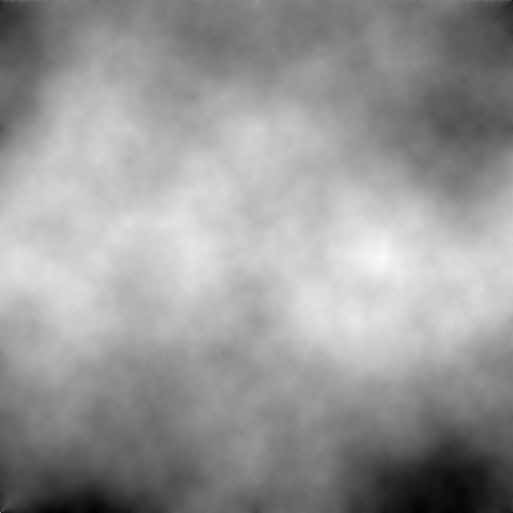
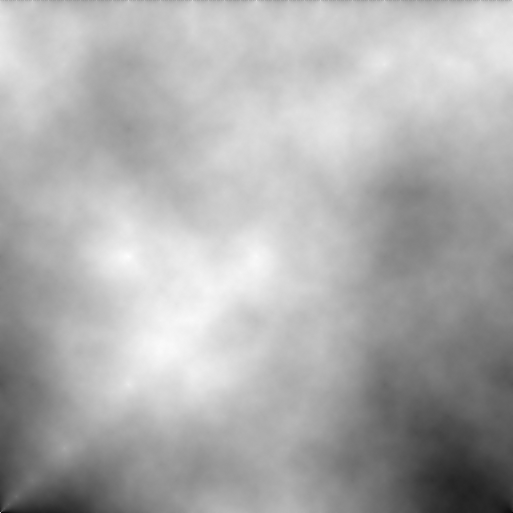
river flow is a failure

diff --git a/terragen/river2.py b/terragen/river2.py
@@ -5,46 +5,64 @@ from terragen.utils import log, find_neighbors, cell_north, cell_east, cell_west
 
 def make_rivers(world):
     """ Make rivers """
+
+    heightmap = world['heightmap']
+    sea_level = world['sea_level']
+
     # a 2D array of values at each pixel representing the amount of water that has flowed through
     # this pixel into a neighbor
-    rainflow = np.zeros(world['heightmap'].shape, dtype=int)
+    rain_flow = np.zeros(world['heightmap'].shape, dtype=int)
 
     # a working array that represents the rain flow after a certain number of calls to flow()
-    waterlevel = np.zeros(world['heightmap'].shape, dtype=int)
+    water_amount = np.zeros(world['heightmap'].shape, dtype=int)
+
+    # an 2D array of 0 - 255 representing water level
+    water_level = np.copy(world['heightmap'])
 
     # an array of (x, y) coordinates of the nearest lowest neighbor
-    lowest_neighbors = np.empty(world['heightmap'].shape, dtype='int, int')
+    lowest_neighbors = np.zeros(world['heightmap'].shape, dtype='int, int, int')
 
-    x_, y_ = rainflow.shape
+    # a 2D array to make looking up land / water easier
+    is_land = np.zeros(world['heightmap'].shape, dtype=int)
+
+    # seed the map with initial rainfall
+    # TODO: make this not uniform. Maybe perlin noise?
+    x_, y_ = rain_flow.shape
     for x in xrange(x_):
         for y in xrange(y_):
             altitude = world['heightmap'][x, y]
-            if altitude > world['sea_level']:
-                rainflow[x, y] = 1
-                waterlevel[x, y] = 1
-                their_altitude, t_x, t_y = find_neighbors(world['heightmap'], (x, y), sort=True)[0]
-                if their_altitude < world['heightmap'][x, y]:
-                    lowest_neighbors[x, y] = (t_x, t_y)
+            if altitude > sea_level:
+                is_land[x, y] = 1
+                rain_flow[x, y] = 1
+                water_amount[x, y] = 1
+                lowest_neighbors[x, y] = find_neighbors(water_level, (x, y), sort=True)[0]
 
-    print(lowest_neighbors[10, 10])
 
-    def flow():
-        x_, y_ = rainflow.shape
+    def flow(count=1):
+        x_, y_ = rain_flow.shape
         for x in xrange(x_):
             for y in xrange(y_):
-                if waterlevel[x, y] != 0: # land pixels
+                if is_land[x, y] == 1:
                     # get the lowest neighbor
-                    n = lowest_neighbors[x, y]
+                    other_altitude, t_x, t_y = lowest_neighbors[x, y]
 
-                    # is the lowest neighbor less than me?
-                    if n:
-                        # move my water to the neighbor
-                        waterlevel[n[0], n[1]] += waterlevel[x, y]
-                        # rainflow[n[0], n[1]] += waterlevel[x, y]
-                        waterlevel[x, y] = 0
+                    # if the lowest neighbor is higher than me,
+                    # i'm in a depression. Raise the water level accordingly
 
-    for i in xrange(3):
-        print('Flow %i' % i)
-        flow()
+                    if other_altitude >= water_level[x, y]:
+                        # update the water level to the lowest neighbor
+                        water_level[x, y] = other_altitude + 1
 
-    return waterlevel
+                    if is_land[t_x, t_y]:
+                        water_amount[t_x, t_y] += water_amount[x, y]
+                        rain_flow[t_x, t_y] += water_amount[x, y]
+                    water_amount[x, y] = 0
+
+    for i in xrange(100):
+        flow(i)
+        print(np.sum(water_amount))
+
+    print(rain_flow)
+
+
+    return rain_flow, water_level, water_amount

diff --git a/run.py b/run.py
@@ -49,8 +49,8 @@ if __name__ == "__main__":
                 return ((cell - world['sea_level']) / (world['max_height'] - world['sea_level'])) * 100
 
         def terrain_color_func(value, x, y):
-            for min_value, color in TERRAIN:
-                if value <= min_value:
+            for min_value, color in reversed(TERRAIN):
+                if value > min_value:
                     return randomize_color(color, dist=3)
             return randomize_color(color, dist=3)
 
@@ -106,21 +106,53 @@ if __name__ == "__main__":
         draw_image(temperature_map, temp_get_func, terrain_color_func, 'temp', SIZE)
 
     with Timer('Making rivers'):
-        flowmap = make_rivers(world)
+        rain_flow, water_level, water_amount = make_rivers(world)
 
-    print(flowmap[10, 10])
-    min_flow = np.amin(flowmap)
-    max_flow = np.amax(flowmap)
-    print("max: %i, min: %i" % (max_flow, min_flow))
-    with Timer('Drawing rivers'):
+    max_flow = np.amax(rain_flow)
+    with Timer('Drawing rain flow'):
+        def limit(v):
+            if v > 255:
+                return 255
+            if v < 0:
+                return 0
+            return v
+
         def delta_sea_level_func(cell):
-            if cell == 0:
-                return -1
-            return min(int(cell), 255)
+            return cell
 
         def terrain_color_func(value, x, y):
-            if value == -1:
+            if world['heightmap'][x, y] < world['sea_level']:
                 return (100, 100, 100)
-            return (value / 6, value / 3, value)
+            return 0, 0, value
+            value = int(round((float(value) / float(max_flow)) * 255))
+            return (value / 5, value / 3, value)
 
-        draw_image(flowmap, delta_sea_level_func, terrain_color_func, 'flow', SIZE)
+        draw_image(rain_flow, delta_sea_level_func, terrain_color_func, 'flow', SIZE)
+
+    with Timer('Drawing water amount'):
+        def water_amount_func(cell):
+            return cell
+
+        def water_amount_color_func(value, x, y):
+            if world['heightmap'][x, y] < world['sea_level']:
+                return (100, 100, 100)
+            if value < 0:
+                return (0, 0, 0)
+            value = min(value, 255)
+            return (value, value, value)
+
+        draw_image(water_amount, water_amount_func, water_amount_color_func, 'water_amount', SIZE)
+
+    with Timer('Drawing water level'):
+        def water_level_func(cell):
+            return int(cell)
+
+        def water_level_color_func(value, x, y):
+            if world['heightmap'][x, y] < world['sea_level']:
+                return (0, 0, 0)
+            if world['heightmap'][x, y] == value:
+                return (100, 100, 100)
+            diff = (value - int(world['heightmap'][x, y])) * 50
+            return 0, 0, diff
+
+        draw_image(water_level, water_level_func, water_level_color_func, 'water_level', SIZE)

diff --git a/terragen/constants.py b/terragen/constants.py
@@ -15,7 +15,7 @@ TERRAIN = [
     (-30, hsl2rgb('hsl(195, 80%, 32%)')),
     (-20, hsl2rgb('hsl(195, 80%, 35%)')),
     (-10, hsl2rgb('hsl(195, 80%, 40%)')),
-    (0, hsl2rgb('hsl(36,    22%, 40%)')),
+    (0,  hsl2rgb('hsl(36,    22%, 40%)')),
     (10, hsl2rgb('hsl(35,   24%, 42%)')),
     (20, hsl2rgb('hsl(34,   26%, 45%)')),
     (30, hsl2rgb('hsl(33,   28%, 50%)')),

diff --git a/setup.py b/setup.py
@@ -4,5 +4,5 @@ from Cython.Distutils import build_ext
 
 setup(
     cmdclass = {'build_ext': build_ext},
-    ext_modules = [Extension("generator", ["cython_generator.pyx"])]
+    ext_modules = [Extension("generator", ["run.pyx"])]
 )

diff --git a/terragen/utils.py b/terragen/utils.py
@@ -4,7 +4,6 @@ import datetime
 from colored import fore, style
 
 import numpy as np
-import scipy.ndimage as ndimage
 
 def log(string):
     string = string.replace('\n', '\n'.ljust(15, ' '))
